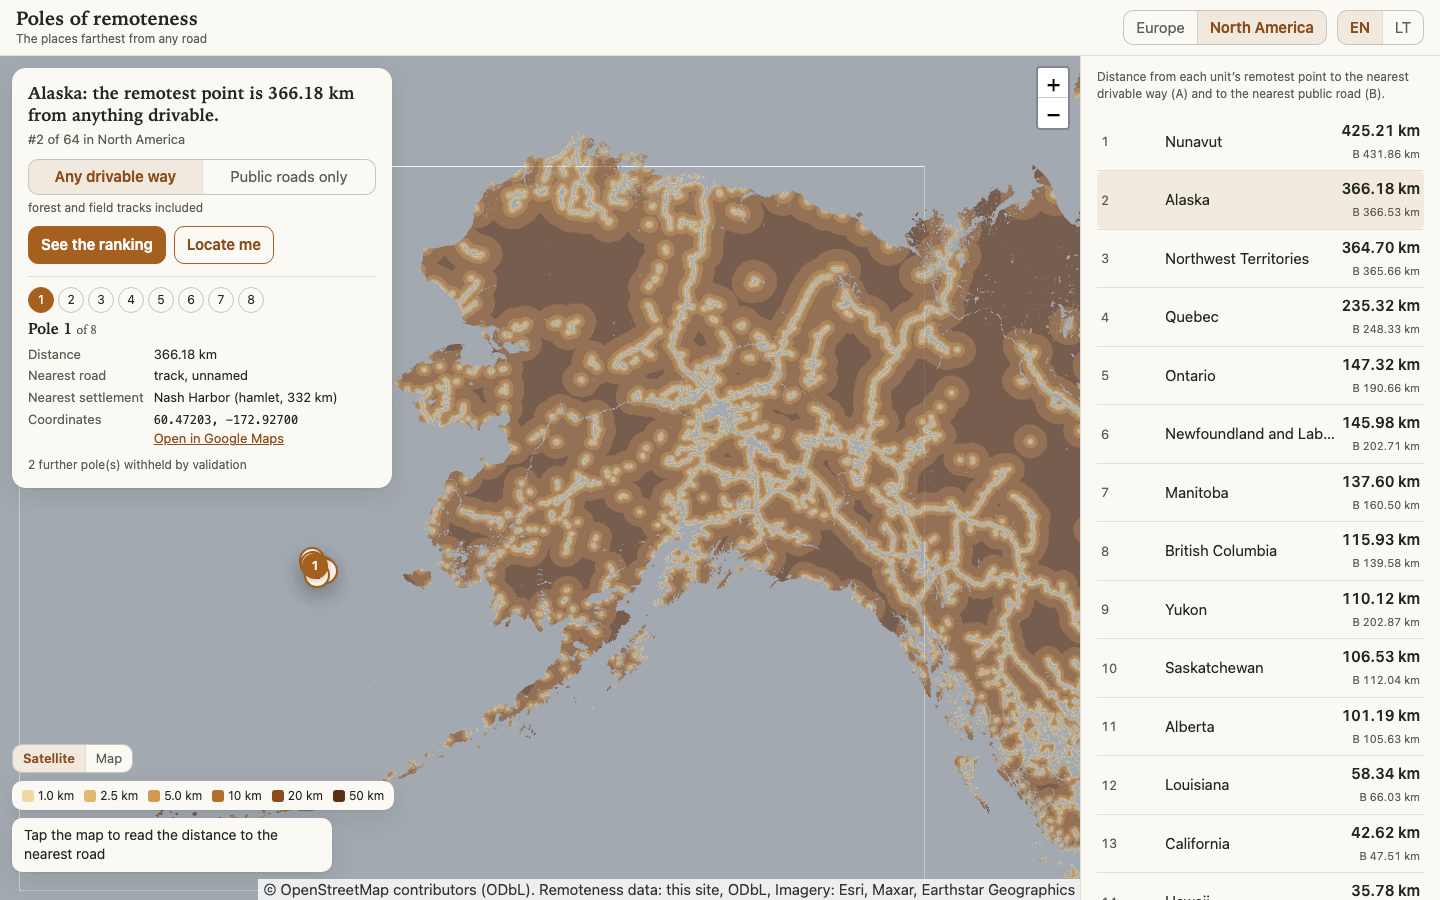
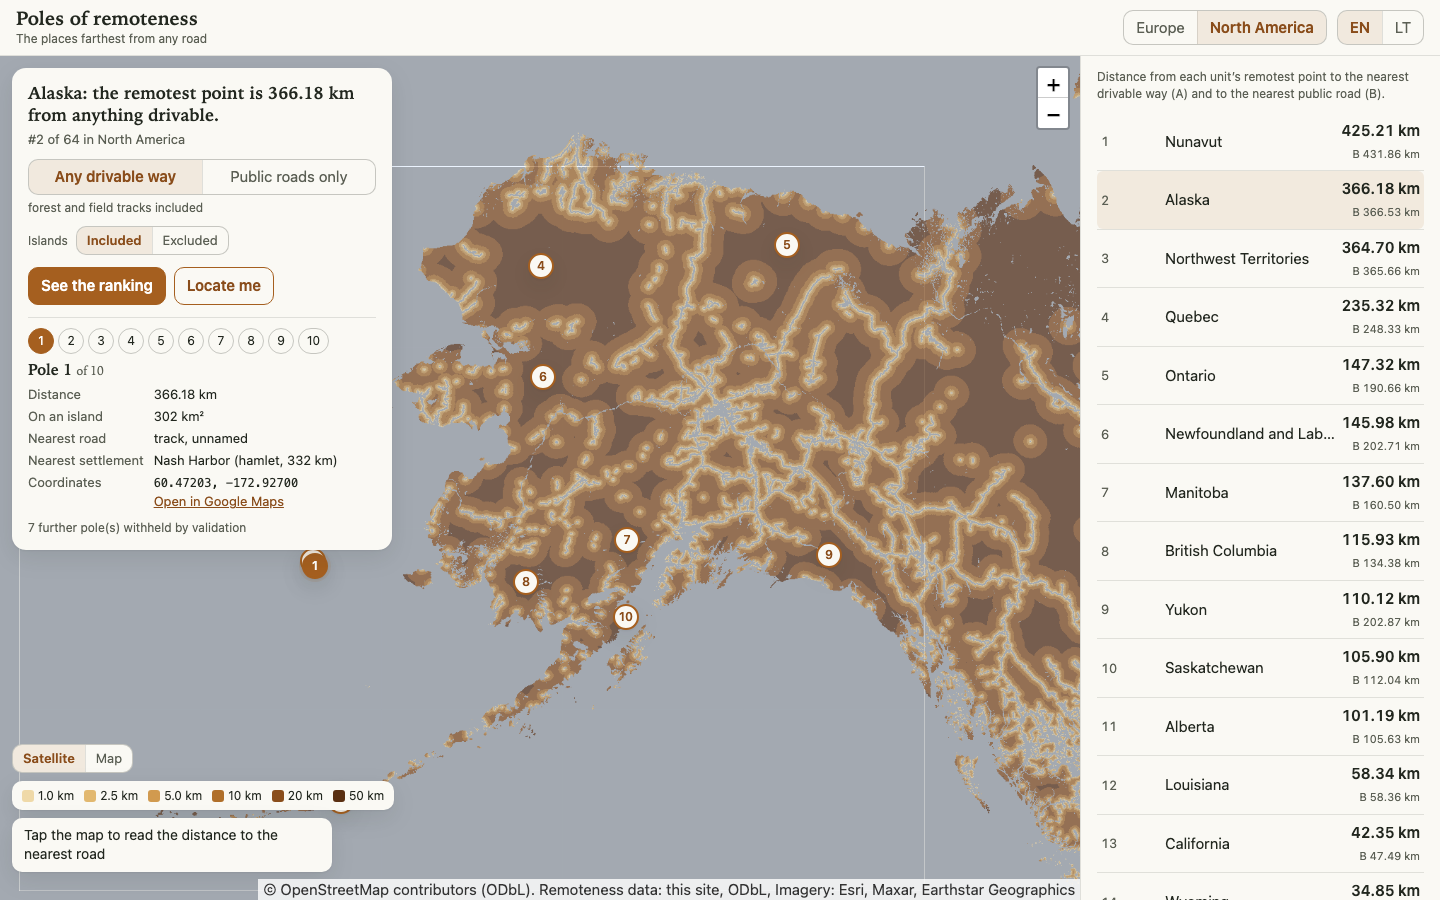
docs: the re-search's numbers in spec 3.3, the headline table and OVERVIEW; the screenshot set regenerated on the new data (#56, #30)
Twelve screenshots, all changed on purpose (the card's islands row and toggle, the new data): Lithuania's
ten markers spread across the country, Alaska with and without its islands, the About text with the rule
numbers filled in, the phone sheet.

Claude-Session: https://claude.ai/code/session_01TDBtxyqUTxMYf4LU4QXe3f

diff --git a/docs/OVERVIEW.md b/docs/OVERVIEW.md
@@ -50,7 +50,7 @@ A bullet here works today, end to end. Anything that waits on a step, a credenti
 
 ## Not done yet / parked (build only on owner's go)
 
-- Europe and North America version: stages 1 to 6 done (#7 to #12; live at https://polesofremoteness.com since 2026-08-24); remaining: automated refresh (#13, parked). **In progress on branch `distinct-areas` (2026-09-05)**: the distinct-area rule (#56), the island floor, tag and toggle (#30), identity-keyed detail rasters (#57 for the prune); plan `docs/superpowers/plans/2026-09-05-distinct-areas-and-islands.md`; the code is on the branch, the re-search of both regions waits for the owner's word. #10 closes when the R2 rerun has been made and the owner has confirmed or waived the items that need a real browser and a real visitor. Open pipeline follow-ups: #17 (road tile rebuild takes an hour), #18 (per-unit cache not invalidated by a grid rerun), #19 (edge bound flags poles behind open-sea legs of the extract edge: Hornstrandir, then the western Aleutians), #23 (validate, attribution and road-tile tightenings). Filed during stage 3: #24 (validate a region's `class_table` at config load), #25 (share the data-edge polygon helper between validate and publish), #26 (decode tiles with 255 as nodata, `min_zoom` from the published metadata: done by stage 4's explore layer, closes with #10), #27 (detail road query pad breaks down above about 80 N), #28 (pole coordinates rounded to six decimals can fall just outside their land polygon), #29 (publish tightenings from the stage-3 final review). Filed during stage 4: #30 (a pole on a sub-pixel islet has an all-nodata detail raster), #31 (untranslated region name in the card's rank line, fix at the R2 rerun), #33 (locate resolves the unit by bounding box; lazy unit outlines are the proper fix), #34 and #35 (phone layout, fixed before the push, closed); #32 (the phone card covered half the screen, confirmed by the owner on a real phone) was fixed 2026-09-05 by making the card the top of the bottom sheet on phones. Filed during stage 5: #36 to #39 (latent antimeridian cases), #44 (no end-to-end search test); #22, #41, #43, #45 and #46 were fixed and closed during the stage, and #40 (a region link dropped the hash) was fixed 2026-08-30 together with its sibling #51 (the header home link dropped it too).
+- Europe and North America version: stages 1 to 6 done (#7 to #12; live at https://polesofremoteness.com since 2026-08-24); remaining: automated refresh (#13, parked). **Built and published from branch `distinct-areas`, 2026-09-05 to 07, merge pending the owner's review**: the distinct-area rule (#56), the island floor at the cell and at the refined point, the island tag and the site's islands toggle (#30), identity-keyed detail rasters (#57 for the prune), the phone card as the top of the bottom sheet (#32); plan `docs/superpowers/plans/2026-09-05-distinct-areas-and-islands.md`, decisions in DECISIONS under 2026-09-05 and 06. Both regions re-searched, validated with 0 blocking failures and published to R2 under the new keys (Europe 1,061 published poles, 526 A and 535 B, 83 and 89 on islands; North America 1,569, 780 A and 789 B, 147 and 156 on islands; numbers in spec 3.3); the site data is committed on the branch and on the preview worker, production still serves the previous data from `main`. Poles with a sibling within 20 km fell from 51.6% to 31.6% of Europe's and from 67.4% to 27.8% of North America's (islands shown; `dev/bunching.py`). The night's cost was four search rounds: a places layer lost to a disk sweep, two retirement costs and two island-floor readings, each a DECISIONS addendum. #10 closes when the R2 rerun has been made and the owner has confirmed or waived the items that need a real browser and a real visitor. Open pipeline follow-ups: #17 (road tile rebuild takes an hour), #18 (per-unit cache not invalidated by a grid rerun), #19 (edge bound flags poles behind open-sea legs of the extract edge: Hornstrandir, then the western Aleutians), #23 (validate, attribution and road-tile tightenings). Filed during stage 3: #24 (validate a region's `class_table` at config load), #25 (share the data-edge polygon helper between validate and publish), #26 (decode tiles with 255 as nodata, `min_zoom` from the published metadata: done by stage 4's explore layer, closes with #10), #27 (detail road query pad breaks down above about 80 N), #28 (pole coordinates rounded to six decimals can fall just outside their land polygon), #29 (publish tightenings from the stage-3 final review). Filed during stage 4: #30 (a pole on a sub-pixel islet has an all-nodata detail raster), #31 (untranslated region name in the card's rank line, fix at the R2 rerun), #33 (locate resolves the unit by bounding box; lazy unit outlines are the proper fix), #34 and #35 (phone layout, fixed before the push, closed); #32 (the phone card covered half the screen, confirmed by the owner on a real phone) was fixed 2026-09-05 by making the card the top of the bottom sheet on phones. Filed during stage 5: #36 to #39 (latent antimeridian cases), #44 (no end-to-end search test); #22, #41, #43, #45 and #46 were fixed and closed during the stage, and #40 (a region link dropped the hash) was fixed 2026-08-30 together with its sibling #51 (the header home link dropped it too).
 - Stats viewer page for the Analytics Engine data (parked, unchanged)
 - Analytics retention snapshots (AE keeps ~3 months; ground truth starts 2026-08-18, first data at risk ~2026-11-18)
 - Mobile app exercise (Expo, GPS remoteness compass): explicitly not v1; the spec keeps the data usable offline later

diff --git a/docs/EUROPE_SPEC.md b/docs/EUROPE_SPEC.md
@@ -124,6 +124,17 @@ The frame is 46,688 x 40,823 cells (1,906 M) at 250 m in an equal-area projectio
 
 A rented Hetzner box (16 vCPU, 32 GB, about 0.10 EUR/h) does a full run for under 1 EUR and pulls the extract in minutes; the container makes the two interchangeable. GitHub-hosted runners (14 GB disk) cannot run the compute and are used only as orchestrator and deployer.
 
+**Re-search under the distinct-area and island rules (2026-09-06/07, branch `distinct-areas`, commits be4d8db to 3309303, the same Mac with a browser open).** The search runs Europe on 3 workers and North America on 2 (a North America worker peaks at 7 to 10 GB); the wall clocks below are of the final runs, and Europe's search wall clock is not quoted because the Mac slept during it (an uninterrupted run of the same shape earlier that day took 22 minutes).
+
+| | Europe | North America |
+| --- | --- | --- |
+| poles | 104 jobs, 1,062 poles (527 A, 535 B), 37,118 refinements, 7,216 job-seconds; slowest Iceland B 561 s and 1,608 refinements | 128 jobs, 1,584 poles (787 A, 797 B), 413,881 refinements, 33,376 job-seconds, 16,791 s wall; slowest Nunavut B 4,543 s and 66,748 refinements |
+| validate | 3,234 s: check 1 recheck 409 s, check 3 edge bound 264 s, check 4 grid shift 2,465 s, check 5 holes 33 s, check 7 distinct areas 55 s, contact sheet 4 s; 0 blocking failures, 6 warnings, 1 excluded (Georgia A rank 1 at the data edge) | 13,706 s: check 1 recheck 723 s, check 3 edge bound 324 s, check 4 grid shift 12,459 s, check 5 holes 32 s, check 7 distinct areas 158 s, contact sheet 8 s; 0 blocking failures, 21 warnings, 15 excluded (the western Aleutian poles of Alaska, ranks 3 to 9 in A and 3 to 10 in B, at the data edge) |
+| publish (local part) | 87 s: the archives adopted unchanged, 1,061 detail rasters of which all but 191 keys were kept from the day's earlier publish under their identity keys (18.8 s), 2,127 keys verified | 2,126 s: archives adopted, 1,569 detail rasters in 1,939.5 s on 4 workers, 3,141 keys uploaded and 3,143 verified |
+| published | 1,061 poles: 526 A (83 on islands in 15 units) and 535 B (89 in 16 units); 11 units per scenario exhaust below ten (the microstates, Andorra, the Channel Islands, Malta, the Faroes) | 1,569 poles: 780 A (147 on islands in 31 units) and 789 B (156 in 31 units); the District of Columbia exhausts at one |
+
+The bucket held 4,352 objects (0.705 GB) before and 9,852 (0.752 GB) after: nothing was deleted, the rank-keyed rasters of the previous publish and the identity keys of two superseded publishes of the same day are the orphans issue #57's prune removes after the merge. Against the plan's estimates the stages landed inside their brackets (Europe validate under it); the schedule slipped on four full search rounds, each a DECISIONS addendum of 2026-09-05/06: the places layer lost to a disk sweep, the retirement's cost on Turkey, the retirement not biting on the Canadian Shield, and two readings of the island floor before the grid-independent one.
+
 ### 3.4 Class table
 
 The explore layer and detail rasters store one byte per pixel: a class index whose lower edge is the distance. Default table (per-region override allowed): 50 m steps to 2.5 km (classes 0-49), 100 m steps to 10 km (50-124), 250 m steps to 30 km (125-204), 1 km steps to 60 km (205-234), 10 km steps from 60 km to 230 km (235-252), class 253 is "240 km or more", 254 is edge-masked, 255 is no-data. The table ships in `regions.json` so the site decodes without hard-coding it. Monotonicity and round-trip are unit-tested.

diff --git a/README.md b/README.md
@@ -10,9 +10,11 @@ How far from a road can you get? This project finds, for every country in Europe
 
 | | Farthest from any drivable way (A) | Public roads only (B) |
 |---|---|---|
-| **Europe**, 52 countries | **71.4 km**: Kolbeinsey, an Icelandic islet in the Greenland Sea | **73.4 km**: North Rona, an island north of the Scottish mainland |
-| **North America**, 64 states and provinces | **425.2 km**: northern Victoria Island, Nunavut | **431.9 km**: Nunavut again |
+| **Europe**, 52 countries | **50.5 km**: a 1.3 km2 islet south of Astypalaia in the Dodecanese; the first mainland pole is Iceland's at 42.4 km | **73.3 km**: North Rona, an island north of the Scottish mainland |
+| **North America**, 64 states and provinces | **425.2 km**: northern Victoria Island, Nunavut; the first mainland pole is the Northwest Territories' at 310.5 km | **431.9 km**: Nunavut again |
 | **Lithuania**, the original weekend build | **3.43 km**: Žuvintas biosphere reserve bog | **6.67 km**: Čepkeliai raised bog |
+
+Each unit lists its ten best points on its main landmass and any island points that rank above them, ten apart by a distinct-area rule (two points count as separate places only when every route between them drops below half the nearer one's distance to a road); islands carry their area and can be switched off in the card, which hides the islet headlines above and ranks Europe by Iceland and North America by the Northwest Territories. Points on land smaller than 1 km2 are not published.
 
 Distance is the straight line to the nearest drivable OSM way, sea included, which is why lonely islets win. Scenario A counts every drivable way, forest and field tracks included; scenario B counts public roads only. Roads in neighbouring data always count: a point near the Texas border is only as remote as the nearest Mexican road, and the Europe extract carries Armenia through Syria so its southeastern edge is honest.
 
